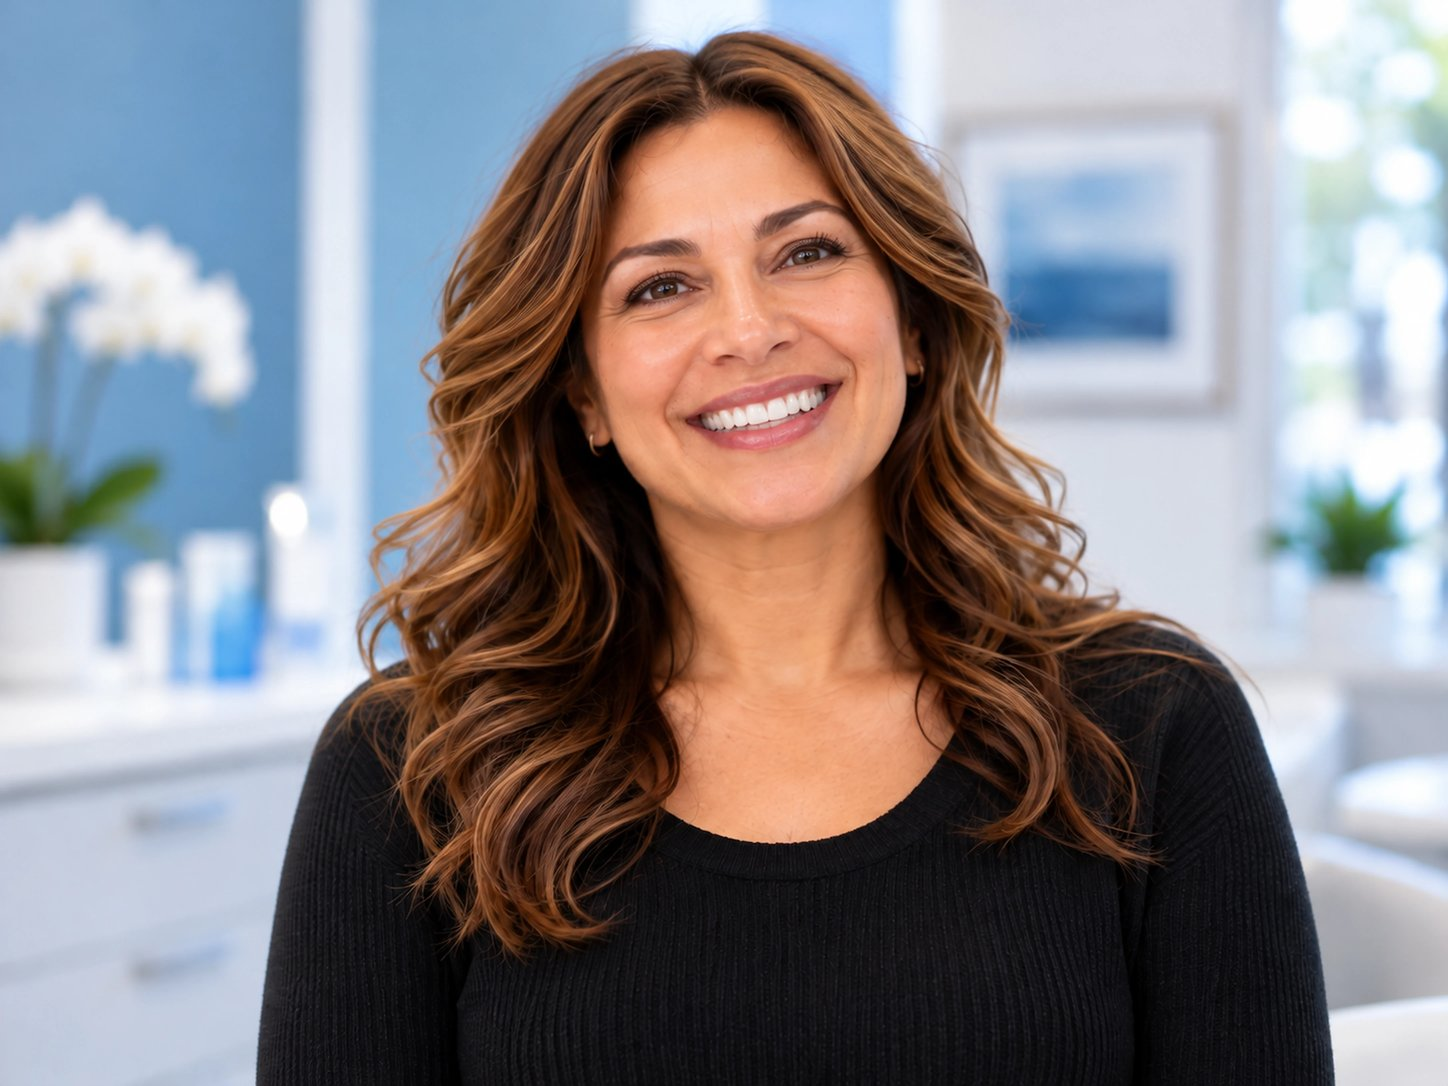
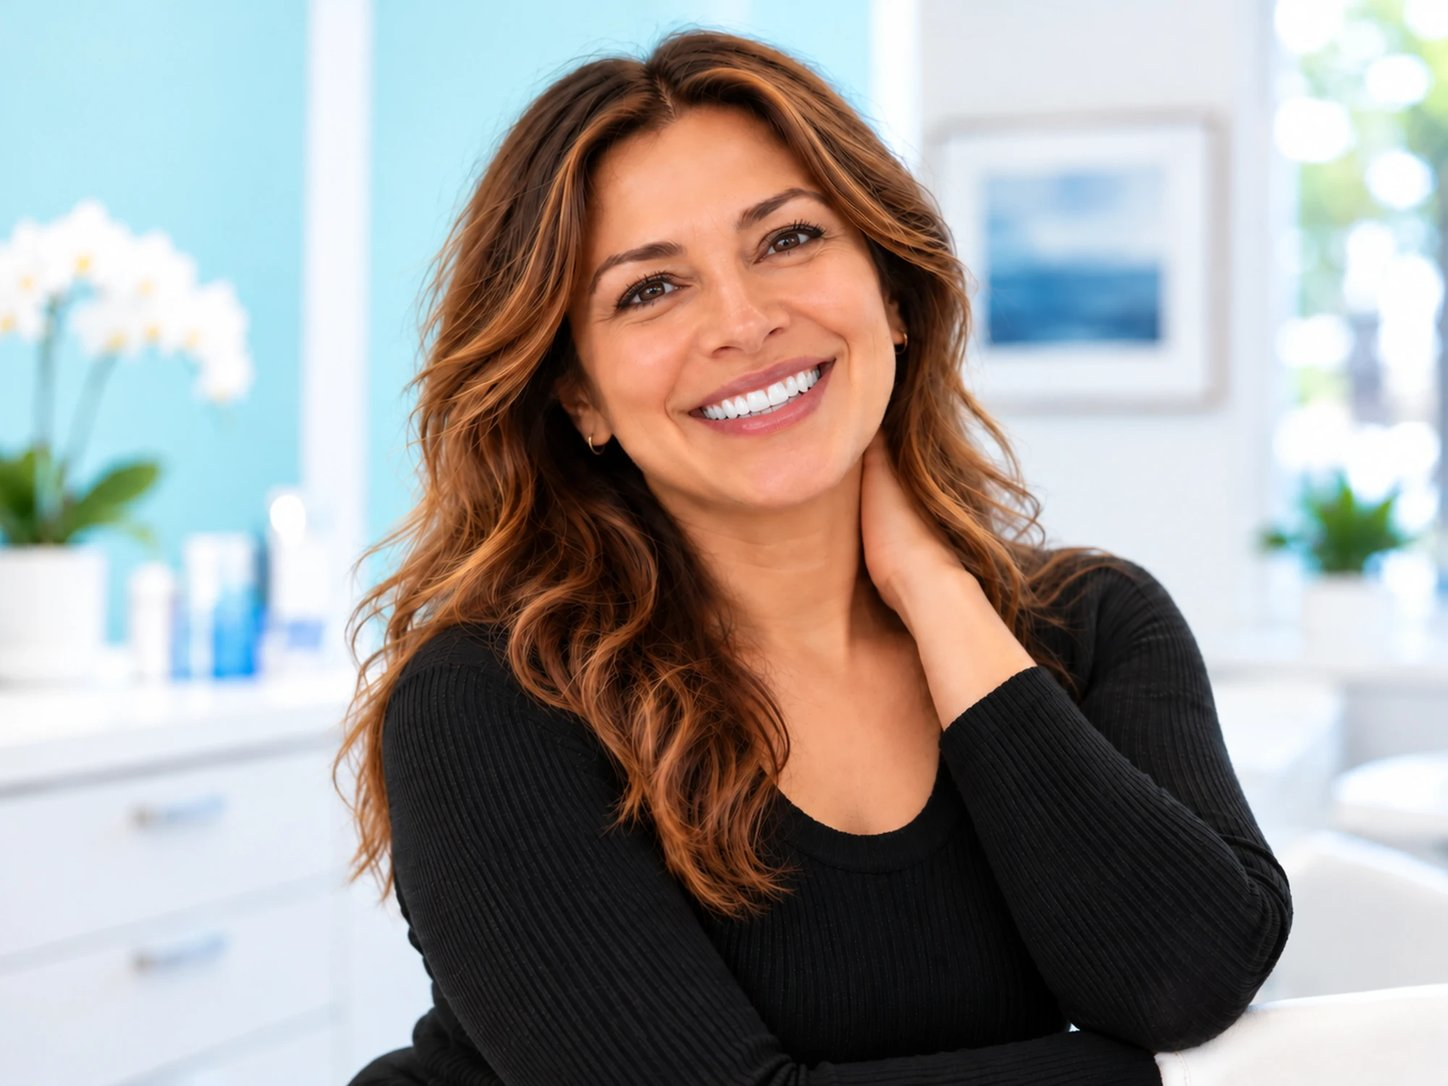
feat: new photos on the Cosmetic, Crowns, Root Canal, Implants and Aligners pages
- Cosmetic Dentistry: the new pose of the woman with long hair.
- Crowns, Root Canal, Implants and Clear Aligners & Braces: the practice's
  patient photos replace the older stock and design photos, using the same
  people as the homepage tabs. Dentures keeps its photo.

diff --git a/src/content/services.ts b/src/content/services.ts
@@ -55,11 +55,11 @@ const definitions: readonly ServiceDefinition[] = [
   { id: 'emergency', href: routes.emergency, image: 'emergencyPatient', thumbnail: 'thumbEmergency' },
   { id: 'extractions', href: `${routes.services}/extractions`, image: 'extractionsPatient', imagePosition: '30% 50%', thumbnail: 'thumbExtractions' },
   { id: 'restorative', href: `${routes.services}/restorative`, image: 'restorativePatient', imagePosition: '72% 50%', thumbnail: 'thumbRestorative' },
-  { id: 'crowns', href: `${routes.services}/crowns`, image: 'assessment', thumbnail: 'thumbCrowns' },
-  { id: 'root-canal', href: `${routes.services}/root-canal`, image: 'teethModel', thumbnail: 'thumbRootCanal' },
-  { id: 'implants', href: `${routes.services}/implants`, image: 'toothModel', thumbnail: 'thumbImplants' },
+  { id: 'crowns', href: `${routes.services}/crowns`, image: 'crownsPatient', thumbnail: 'thumbCrowns' },
+  { id: 'root-canal', href: `${routes.services}/root-canal`, image: 'rootCanalPatient', thumbnail: 'thumbRootCanal' },
+  { id: 'implants', href: `${routes.services}/implants`, image: 'implantsPatient', thumbnail: 'thumbImplants' },
   { id: 'dentures', href: `${routes.services}/dentures`, image: 'roomCream', thumbnail: 'thumbDentures' },
-  { id: 'clear-aligners-braces', href: `${routes.services}/clear-aligners-braces`, image: 'clearAligner', thumbnail: 'thumbAligners' },
+  { id: 'clear-aligners-braces', href: `${routes.services}/clear-aligners-braces`, image: 'alignersPatient', thumbnail: 'thumbAligners' },
   { id: 'cosmetic', href: `${routes.services}/cosmetic`, image: 'cosmeticPatient', thumbnail: 'thumbCosmetic' },
 ];
 

diff --git a/src/content/assets.ts b/src/content/assets.ts
@@ -14,6 +14,10 @@ import extractionsPatient from '../../public/images/services/extractions-patient
 import emergencyPatient from '../../public/images/services/emergency-patient.jpg';
 import restorativePatient from '../../public/images/services/restorative-patient.jpg';
 import cosmeticPatient from '../../public/images/services/cosmetic-patient.jpg';
+import crownsPatient from '../../public/images/services/crowns-patient.jpg';
+import rootCanalPatient from '../../public/images/services/root-canal-patient.jpg';
+import implantsPatient from '../../public/images/services/implants-patient.jpg';
+import alignersPatient from '../../public/images/services/aligners-patient.jpg';
 // Homepage "common problems" tab photos, supplied by the practice on 21 October 2026.
 import toothPain from '../../public/images/home/tooth-pain.jpg';
 import crookedTeeth from '../../public/images/home/crooked-teeth.jpg';
@@ -53,6 +57,7 @@ import thumbCosmetic from '../../public/images/services/thumbnails/cosmetic.jpg'
 export const photos = {
   smile, assessment, appointments, medication, backPortrait, guides,
   toothModel, clearAligner, teethModel, heroSmile, extractionsPatient, emergencyPatient, restorativePatient, cosmeticPatient,
+  crownsPatient, rootCanalPatient, implantsPatient, alignersPatient,
   toothPain, missingTeeth, crookedTeeth, checkUp, smileMakeover,
   doctorPortrait, teamGroup, orlandoFront, orlandoEntrance, frontDesk,
   xrayTeamLandscape, xrayTeamPortrait, roomTeal, roomCream,

diff --git a/docs/image-credits.md b/docs/image-credits.md
@@ -41,6 +41,10 @@ Supplied on 20 October 2026. Their source and licence are not recorded yet: conf
 | `public/images/services/thumbnails/restorative.jpg` | Fillings and restorative care card on the services grid (replaces the earlier card photo) |
 | `public/images/services/thumbnails/cleanings-checkups.jpg` | Cleanings and check-ups card on the services grid (replaces the earlier card photo, 21 October 2026) |
 | `public/images/services/cosmetic-patient.jpg` | Cosmetic dentistry page, beside the text (woman with long hair, 21 October 2026) |
+| `public/images/services/crowns-patient.jpg` | Crowns page, beside the text (22 October 2026) |
+| `public/images/services/root-canal-patient.jpg` | Root canal page, beside the text (22 October 2026) |
+| `public/images/services/implants-patient.jpg` | Dental implants page, beside the text (22 October 2026) |
+| `public/images/services/aligners-patient.jpg` | Clear aligners and braces page, beside the text (22 October 2026) |
 | `public/images/services/thumbnails/cosmetic.jpg` | Cosmetic dentistry card on the services grid (smiling patient in the chair, 21 October 2026) |
 | `public/images/home/tooth-pain.jpg` | Homepage "Tooth pain" tab (21 October 2026) |
 | `public/images/home/missing-teeth.jpg` | Homepage "Missing teeth" tab (21 October 2026) |
